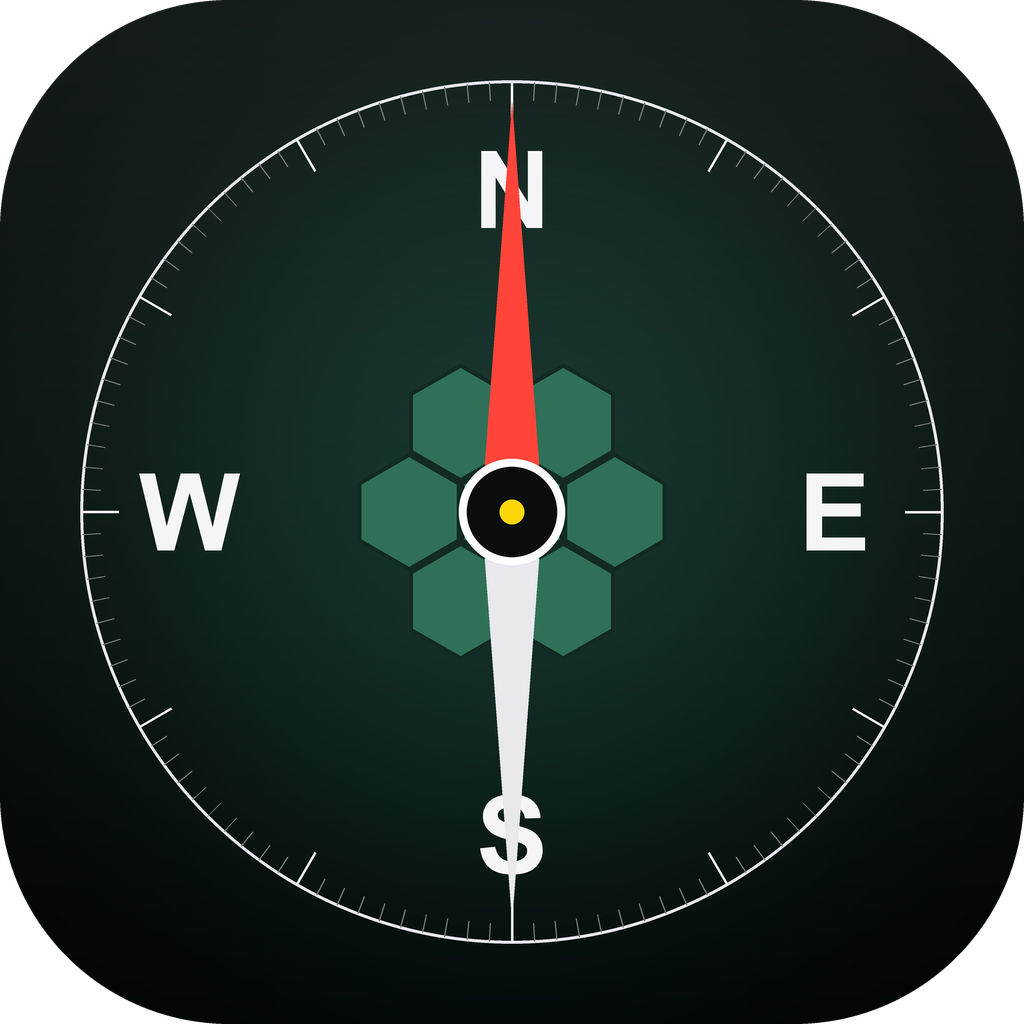
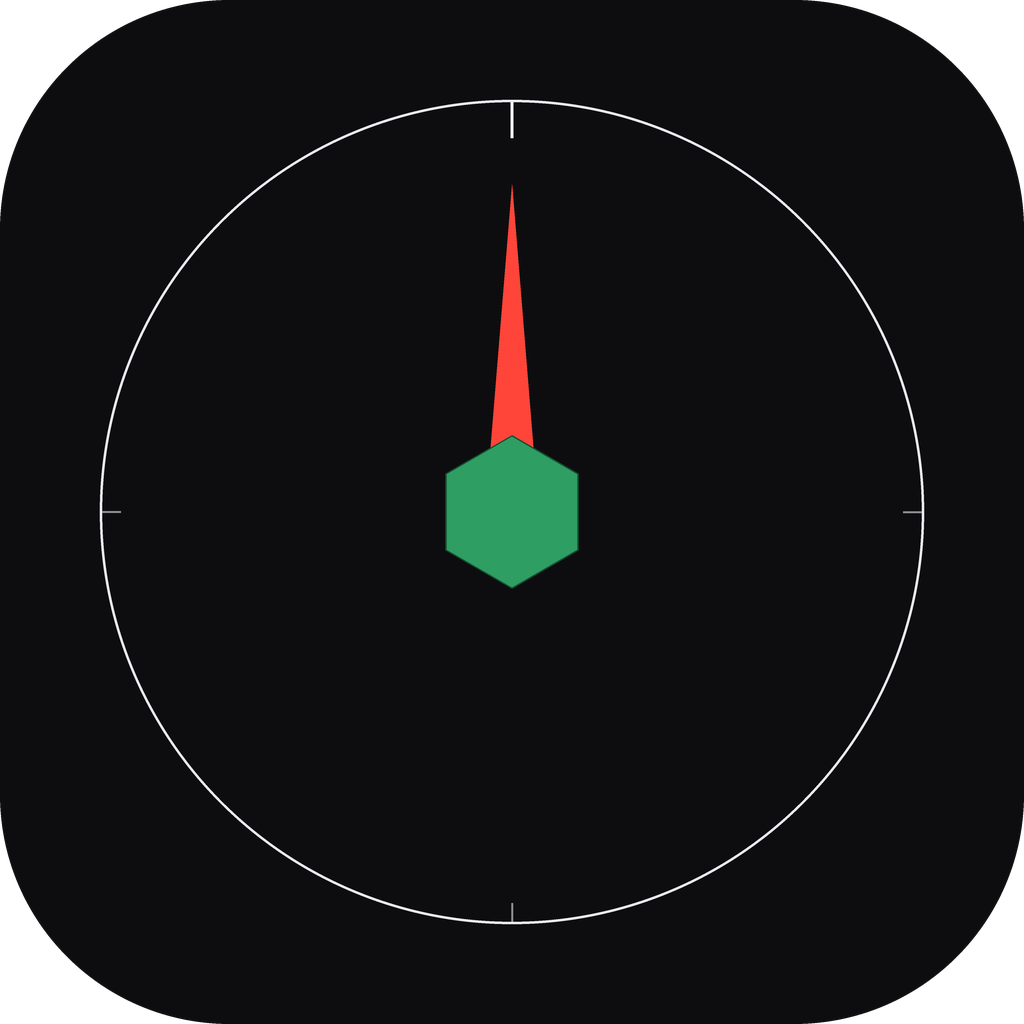
主要变化:修复底部白边、新增城市区域、表盘上移、图标重设计
- 修复界面底部白色区域（html/body 背景固定黑色）
- 表盘下方新增当前城市区域显示（BigDataCloud 逆地理编码，Nominatim 兜底）
- 表盘整体上移 14px
- App 图标改为简约风格：黑底白环 + 红针 + 绿色六边形中心

diff --git a/index_backup_20260813_211508.html b/index_backup_20260813_211508.html
@@ -28,14 +28,12 @@ body {
   margin: 0;
   padding: 0;
   height: 100%;
-  background: #000000;
 }
 
 body {
   font-family: -apple-system, BlinkMacSystemFont, "SF Pro Text", "PingFang SC", "Helvetica Neue", sans-serif;
   color: var(--text);
   background: radial-gradient(120% 80% at 50% 26%, #2c2c2e 0%, #101012 55%, #000000 100%);
-  background-color: #000000;
   -webkit-font-smoothing: antialiased;
   -webkit-tap-highlight-color: transparent;
   user-select: none;
@@ -85,7 +83,6 @@ body {
 
 .compass-stage {
   position: relative;
-  margin-top: -14px;
   width: 80vw;
   height: 80vw;
   max-width: 360px;
@@ -134,14 +131,6 @@ body {
   width: 100%;
   height: 100%;
   display: block;
-}
-
-.city-line {
-  margin-top: 10px;
-  min-height: 18px;
-  font-size: 14px;
-  color: var(--label);
-  letter-spacing: 1px;
 }
 
 .level-hint {
@@ -449,7 +438,6 @@ body {
       </div>
       <div class="level-hint" id="levelHint">将手机水平放置</div>
         <button id="enableBtn" class="enable-btn" type="button">点击启用方向</button>
-      <div class="city-line" id="cityLine">正在识别位置…</div>
     </main>
 
     <footer class="readout">
@@ -482,12 +470,10 @@ body {
     coordinates: document.getElementById("coordinates"),
     coordinatesDecimal: document.getElementById("coordinatesDecimal"),
     enableBtn: document.getElementById("enableBtn"),
-    levelHint: document.getElementById("levelHint"),
-    cityLine: document.getElementById("cityLine")
+    levelHint: document.getElementById("levelHint")
   };
 
   var heading = null;
-  var geoCoded = false;
   var demoMode = /[?&]demo=1/.test(window.location.search);
 
   window.addEventListener("error", function (e) {
@@ -577,7 +563,6 @@ body {
 
   function onPosition(pos) {
     renderPosition(pos.coords);
-    maybeReverseGeocode(pos);
   }
 
   function onLocationError(err) {
@@ -591,47 +576,7 @@ body {
     els.altitude.textContent = "—";
   }
 
-  /* ---------- 城市区域（逆地理编码） ---------- */
-  function maybeReverseGeocode(pos) {
-    var acc = typeof pos.coords.accuracy === "number" ? pos.coords.accuracy : null;
-    if (geoCoded || (acc !== null && acc > 1200)) {
-      return;
-    }
-    geoCoded = true;
-    reverseGeocode(pos.coords.latitude, pos.coords.longitude);
-  }
-
-  function reverseGeocode(lat, lon) {
-    var url = "https://api.bigdatacloud.net/data/reverse-geocode-client?latitude=" + lat + "&longitude=" + lon + "&localityLanguage=zh";
-    fetch(url).then(function (r) {
-      return r.json();
-    }).then(function (d) {
-      var parts = [];
-      if (d.city) { parts.push(d.city); }
-      if (d.locality && d.locality !== d.city) { parts.push(d.locality); }
-      if (!parts.length && d.principalSubdivision) { parts.push(d.principalSubdivision); }
-      if (!parts.length && d.countryName) { parts.push(d.countryName); }
-      els.cityLine.textContent = parts.length ? parts.join(" ") : "未能识别所在区域";
-    }).catch(function () {
-      var u2 = "https://nominatim.openstreetmap.org/reverse?format=jsonv2&lat=" + lat + "&lon=" + lon + "&zoom=12&accept-language=zh-CN";
-      fetch(u2).then(function (r) {
-        return r.json();
-      }).then(function (d) {
-        var a = d.address || {};
-        var parts = [];
-        if (a.city) { parts.push(a.city); }
-        else if (a.town) { parts.push(a.town); }
-        var sub = a.suburb || a.city_district || a.county;
-        if (sub && sub !== parts[0]) { parts.push(sub); }
-        if (!parts.length && a.state) { parts.push(a.state); }
-        els.cityLine.textContent = parts.length ? parts.join(" ") : (a.country || "未能识别所在区域");
-      }).catch(function () {
-        els.cityLine.textContent = "未能识别所在区域";
-      });
-    });
-  }
-
-    function startGeolocation() {
+  function startGeolocation() {
     if (!("geolocation" in navigator)) {
       onLocationError({ message: "此设备不支持定位" });
       return;

diff --git a/make-icon.py b/make-icon.py
@@ -1,8 +1,8 @@
 # -*- coding: utf-8 -*-
-"""指南龟 App 图标生成器：生成 1024 / 180 / 32 三种尺寸 PNG"""
+"""指南龟 App 图标生成器（简约版）：黑底 + 白环 + 四向刻度 + 红针 + 绿色六边形中心"""
 import math
 import os
-from PIL import Image, ImageDraw, ImageFilter, ImageFont
+from PIL import Image, ImageDraw
 
 BASE = os.path.dirname(os.path.abspath(__file__))
 WWW = os.path.join(BASE, "www")
@@ -13,82 +13,36 @@ W = SIZE * SS
 CX = W / 2.0
 CY = W / 2.0
 
-def load_font(size):
-    for name in ["arialbd.ttf", "arial.ttf", "segoeuib.ttf", "segoeui.ttf"]:
-        p = os.path.join(r"C:\Windows\Fonts", name)
-        if os.path.exists(p):
-            return ImageFont.truetype(p, size)
-    return ImageFont.load_default()
+RING_R = W * 0.40
+NEEDLE_LEN = W * 0.32
+HUB_R = W * 0.075
 
-def hex_points(cx, cy, r):
+def draw():
+    img = Image.new("RGB", (W, W), (13, 13, 15))
+    d = ImageDraw.Draw(img)
+
+    d.ellipse([CX - RING_R - 10, CY - RING_R - 10, CX + RING_R + 10, CY + RING_R + 10],
+              outline=(232, 232, 237), width=10)
+
+    for deg, major in ((0, True), (90, False), (180, False), (270, False)):
+        a = math.radians(deg)
+        r1 = RING_R - (W * 0.035 if major else W * 0.018)
+        x1 = CX + r1 * math.sin(a)
+        y1 = CY - r1 * math.cos(a)
+        x2 = CX + RING_R * math.sin(a)
+        y2 = CY - RING_R * math.cos(a)
+        d.line([x1, y1, x2, y2],
+               fill=(240, 240, 245) if major else (140, 142, 146),
+               width=(12 if major else 8))
+
+    hw = W * 0.026
+    d.polygon([(CX, CY - NEEDLE_LEN), (CX - hw, CY), (CX + hw, CY)], fill=(255, 69, 58))
+
     pts = []
     for i in range(6):
         a = math.radians(60 * i + 30)
-        pts.append((cx + r * math.cos(a), cy + r * math.sin(a)))
-    return pts
-
-def draw():
-    img = Image.new("RGB", (W, W), (0, 0, 0))
-    d = ImageDraw.Draw(img)
-
-    top = (40, 52, 48)
-    bottom = (3, 7, 6)
-    for y in range(W):
-        t = y / float(W - 1)
-        d.line([(0, y), (W, y)], fill=(
-            int(top[0] + (bottom[0] - top[0]) * t),
-            int(top[1] + (bottom[1] - top[1]) * t),
-            int(top[2] + (bottom[2] - top[2]) * t)))
-
-    glow = Image.new("RGB", (W, W), (0, 0, 0))
-    gd = ImageDraw.Draw(glow)
-    gd.ellipse([CX - W * 0.36, CY - W * 0.36, CX + W * 0.36, CY + W * 0.36], fill=(26, 82, 68))
-    glow = glow.filter(ImageFilter.GaussianBlur(radius=W * 0.16))
-    img = Image.blend(img, glow, 0.5)
-
-    d = ImageDraw.Draw(img)
-    outer = W * 0.420
-    d.ellipse([CX - outer - 6, CY - outer - 6, CX + outer + 6, CY + outer + 6], outline=(232, 232, 237), width=12)
-
-    for deg in range(0, 360, 3):
-        major = deg % 30 == 0
-        r1 = outer - (W * 0.036 if major else W * 0.018)
-        a = math.radians(deg)
-        x1 = CX + r1 * math.sin(a)
-        y1 = CY - r1 * math.cos(a)
-        x2 = CX + outer * math.sin(a)
-        y2 = CY - outer * math.cos(a)
-        d.line([x1, y1, x2, y2], fill=(240, 240, 245) if major else (118, 120, 124), width=(10 if major else 5))
-
-    letters = {"N": 0, "E": 90, "S": 180, "W": 270}
-    font = load_font(int(W * 0.105))
-    lr = W * 0.315
-    for letter, deg in letters.items():
-        a = math.radians(deg)
-        x = CX + lr * math.sin(a)
-        y = CY - lr * math.cos(a)
-        bbox = d.textbbox((0, 0), letter, font=font)
-        tw, th = bbox[2] - bbox[0], bbox[3] - bbox[1]
-        d.text((x - tw / 2 - bbox[0], y - th / 2 - bbox[1]), letter, font=font, fill=(245, 245, 248))
-
-    hex_r = W * 0.058
-    shell = [
-        (0, 0), (1.732, 0), (-1.732, 0),
-        (0.866, 1.5), (-0.866, 1.5), (0.866, -1.5), (-0.866, -1.5)
-    ]
-    for i, (hx, hy) in enumerate(shell):
-        fill = (62, 138, 106) if i == 0 else (48, 112, 88)
-        d.polygon(hex_points(CX + hx * hex_r, CY + hy * hex_r, hex_r), fill=fill, outline=(18, 42, 33), width=int(W * 0.004))
-
-    L = W * 0.400
-    hw = W * 0.030
-    d.polygon([(CX, CY - L), (CX - hw, CY), (CX + hw, CY)], fill=(255, 69, 58))
-    d.polygon([(CX, CY + L), (CX - hw, CY), (CX + hw, CY)], fill=(232, 232, 237))
-
-    cap_r = W * 0.052
-    d.ellipse([CX - cap_r, CY - cap_r, CX + cap_r, CY + cap_r], fill=(12, 13, 14), outline=(255, 255, 255), width=int(W * 0.008))
-    dot_r = W * 0.012
-    d.ellipse([CX - dot_r, CY - dot_r, CX + dot_r, CY + dot_r], fill=(255, 214, 10))
+        pts.append((CX + HUB_R * math.cos(a), CY + HUB_R * math.sin(a)))
+    d.polygon(pts, fill=(46, 158, 99), outline=(20, 80, 50), width=6)
 
     mask = Image.new("L", (W, W), 0)
     ImageDraw.Draw(mask).rounded_rectangle([0, 0, W - 1, W - 1], radius=int(W * 0.2237), fill=255)
@@ -98,14 +52,17 @@ def draw():
 
 def main():
     master = draw()
-    p1024 = os.path.join(WWW, "icon-1024.png")
-    p180 = os.path.join(WWW, "icon-180.png")
-    p32 = os.path.join(WWW, "favicon-32.png")
-    master.save(p1024, "PNG")
-    master.resize((180, 180), Image.LANCZOS).save(p180, "PNG")
-    master.resize((32, 32), Image.LANCZOS).save(p32, "PNG")
-    master.save(os.path.join(BASE, "icon-1024.png"), "PNG")
-    for p in (p1024, p180, p32):
+    paths = [
+        os.path.join(WWW, "icon-1024.png"),
+        os.path.join(WWW, "icon-180.png"),
+        os.path.join(WWW, "favicon-32.png"),
+        os.path.join(BASE, "icon-1024.png"),
+    ]
+    master.save(paths[0], "PNG")
+    master.resize((180, 180), Image.LANCZOS).save(paths[1], "PNG")
+    master.resize((32, 32), Image.LANCZOS).save(paths[2], "PNG")
+    master.save(paths[3], "PNG")
+    for p in paths:
         print(p, os.path.getsize(p))
 
 if __name__ == "__main__":

diff --git a/HANDOFF.md b/HANDOFF.md
@@ -47,6 +47,8 @@
     - `Branch "main" is not allowed to deploy due to environment protection rules` → 用户曾手动给仓库环境 `github-pages` 设置 main 分支保护规则，需删除/放行（仓库 Settings → Environments）
     - `Node.js 20 is deprecated` → 无害警告，不影响部署
 12. **部署成功但方向仍无法启用** → 加入 iOS 13+ `DeviceOrientationEvent.requestPermission()` 权限流程，黄色按钮点击触发系统权限弹窗。
+14. **底部白边 + 图标 + 表盘位置 + 城市区域**（2026-08-13）：修复界面底部白色区域（html/body 固定黑底）；图标重设计为简约风格；表盘上移 14px；表盘下方新增当前城市区域显示（逆地理编码，见第 6 节）。
+
 13. **打开要等 + 每次点黄色按钮** → 本轮优化：打开自动请求权限 + `localStorage` 记忆授权 + 2.5 秒兜底按钮（详见第 5 节）；同时海拔字体 22→25px、经纬度 17→19px、经纬间隔 2→3 空格；新增 App 图标（详见第 7 节）。
 
 对应提交（`git log --oneline --reverse`）：`dc7032c`(v0.1 发布) → `73bff83`/`affe325`/`3c4f615`/`a8b0c80`(部署修复系列) → `2a33f9a`(方向权限修复) → `42d9a2e`(权限优化+图标) → `f14cfe1`(权限兜底按钮)。
@@ -68,11 +70,14 @@
 - 经纬度之间间隔：3 个空格（配合 `white-space: pre` 生效），用户嫌小只加一点点
 - 表盘：SVG `viewBox 0 0 400 400`，北东南西大字 + 30° 刻度；中间红/灰指针在独立固定层 `.needle` 中，不随表盘旋转、始终指向手机顶端，长度已缩短避免遮挡北/南文字；表盘顶部白色指示线（向下小箭头）已按用户要求删除；JS 只旋转 `#dial`（`rotate(-heading)`）
 - 配色：黑底 `#000`，标签灰、警示黄 `#ffd60a`（同启用按钮）、错误红 `#ff453a`
+- 底部白边修复：`html, body` 固定黑色背景（曾出现界面底部白色区域，是 html 默认白底露出）
+- 表盘整体上移 14px（`.compass-stage { margin-top: -14px }`）
+- 表盘下方 `.city-line` 显示当前城市区域：BigDataCloud 逆地理编码为主、Nominatim 兜底；定位精度 >1200m 时不解析，避免首次定位误差显示错城市
 - 打开即运行：无启动按钮、无遮罩；页内 `window.onerror` 把 JS 错误显示到表盘下方提示区，便于真机排查
 
 ## 7. App 图标
 
-- `make-icon.py`（Python + PIL）生成三档尺寸：1024 / 180 / 32 px，风格 = 黑色指南针表盘 + 绿色龟壳纹理 + 红白指针，无文字
+- `make-icon.py`（Python + PIL）生成三档尺寸：1024 / 180 / 32 px；2026-08-13 重设计为简约风格 = 纯黑背景 + 白色细圆环 + 四向短刻度 + 红色朝上指针 + 绿色六边形中心（龟壳品牌元素），无文字无纹理
 - 重新生成：`python make-icon.py`
 - `www/index.html` 已加 `<link rel="apple-touch-icon">`（iPhone 添加到主屏幕图标）和 favicon
 

diff --git a/CLAUDE.md b/CLAUDE.md
@@ -30,9 +30,11 @@
 - 方向：优先用 iOS Safari 的 `webkitCompassHeading`，Android 兜底 `deviceorientationabsolute.alpha`。
 - 定位：原生 `navigator.geolocation.watchPosition`，`coords.altitude` 取海拔。
 - 坐标：度分秒（DMS）+ 十进制度双显示。
+- 城市区域：表盘下方显示逆地理编码结果（BigDataCloud 为主、Nominatim 兜底；精度 >1200m 时不解析）。
 - 每次打开都显示黄色按钮，点击后才调用 iOS 13+ 的 `DeviceOrientationEvent.requestPermission()` 并绑定方向事件；无自动请求、无 localStorage 授权记忆（用户明确要求每次点击）。
 - 页内 `window.onerror` 会把 JS 运行错误显示到表盘下方的提示区，便于真机排查。
 - 定位/方向可能需要安全上下文（HTTPS 或 localhost），HTTP 局域网地址可能被浏览器拦截。
+- 界面：html/body 固定黑底（修复底部白边），表盘上移 14px；App 图标为简约风格（黑底白环 + 红针 + 绿色六边形中心），由 `make-icon.py` 生成。
 
 ## 部署（GitHub Pages）
 
